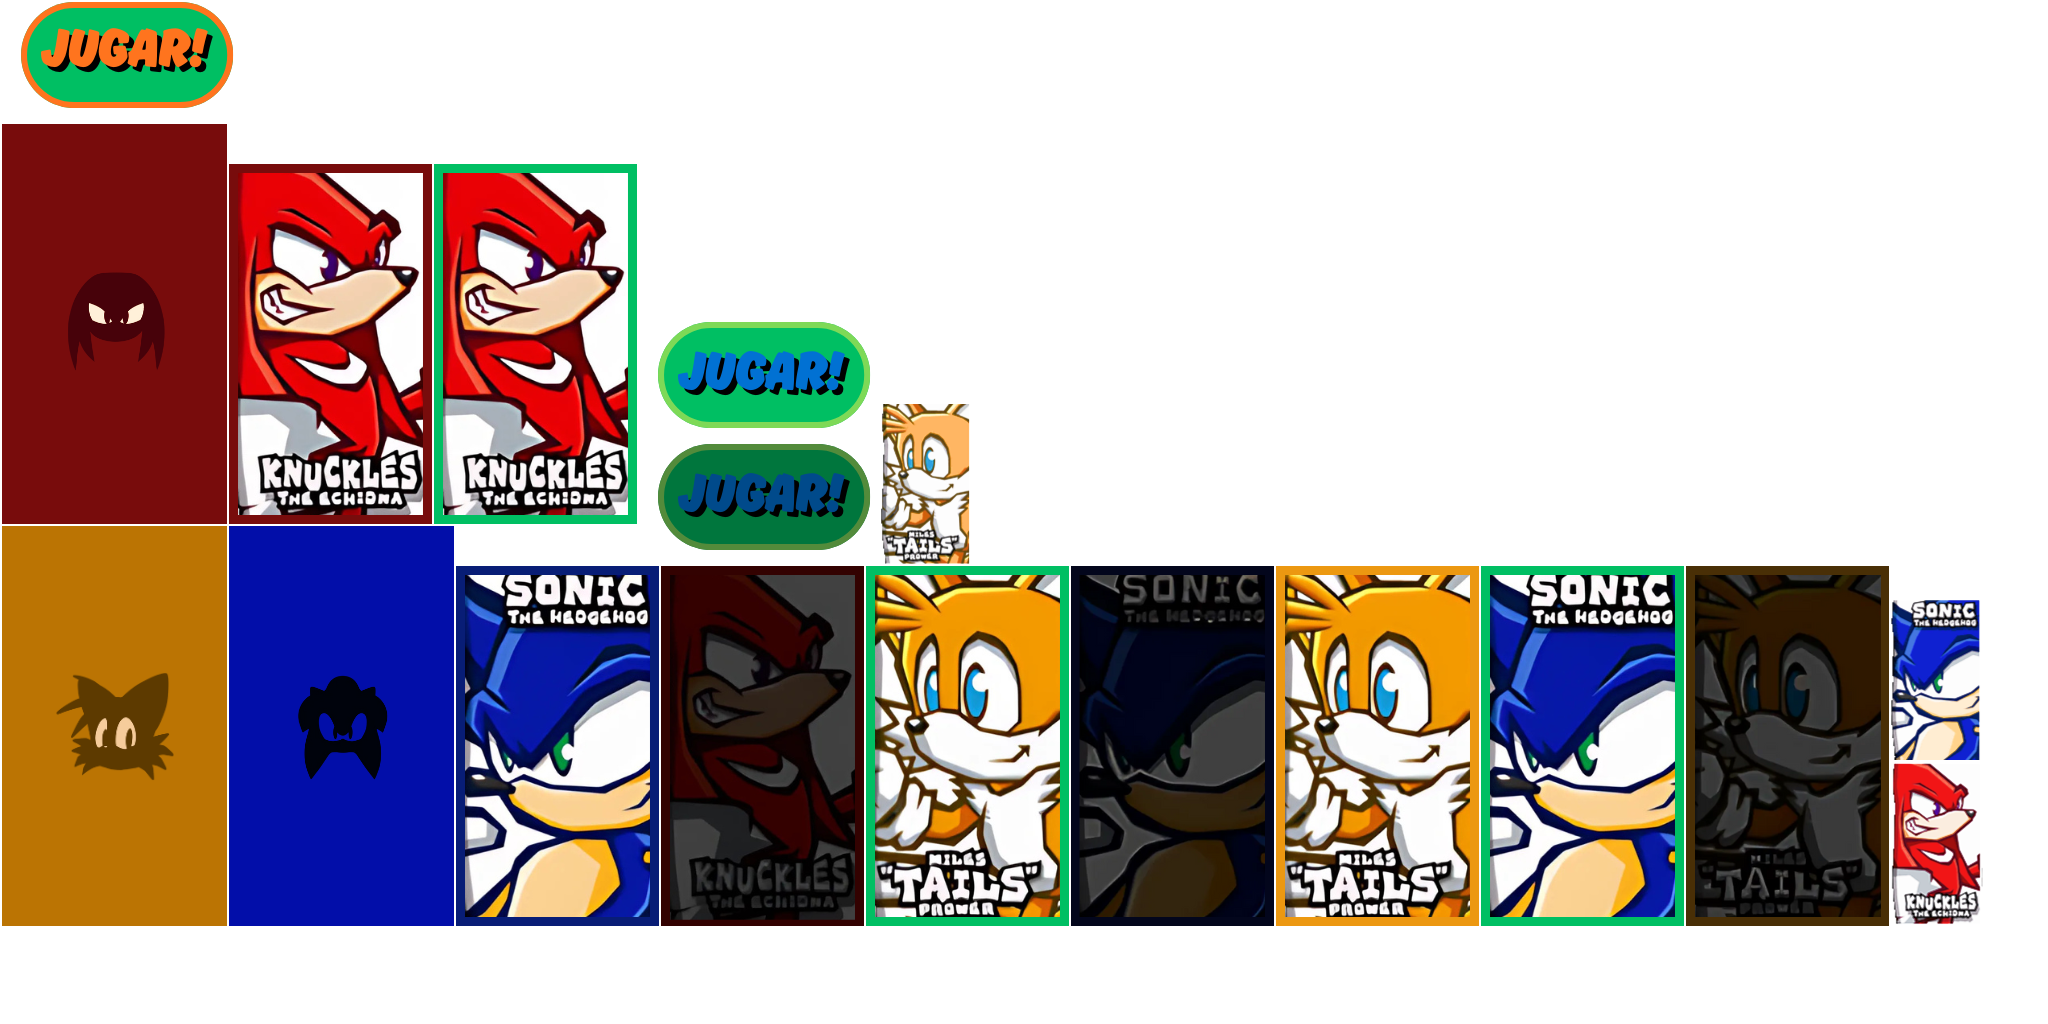
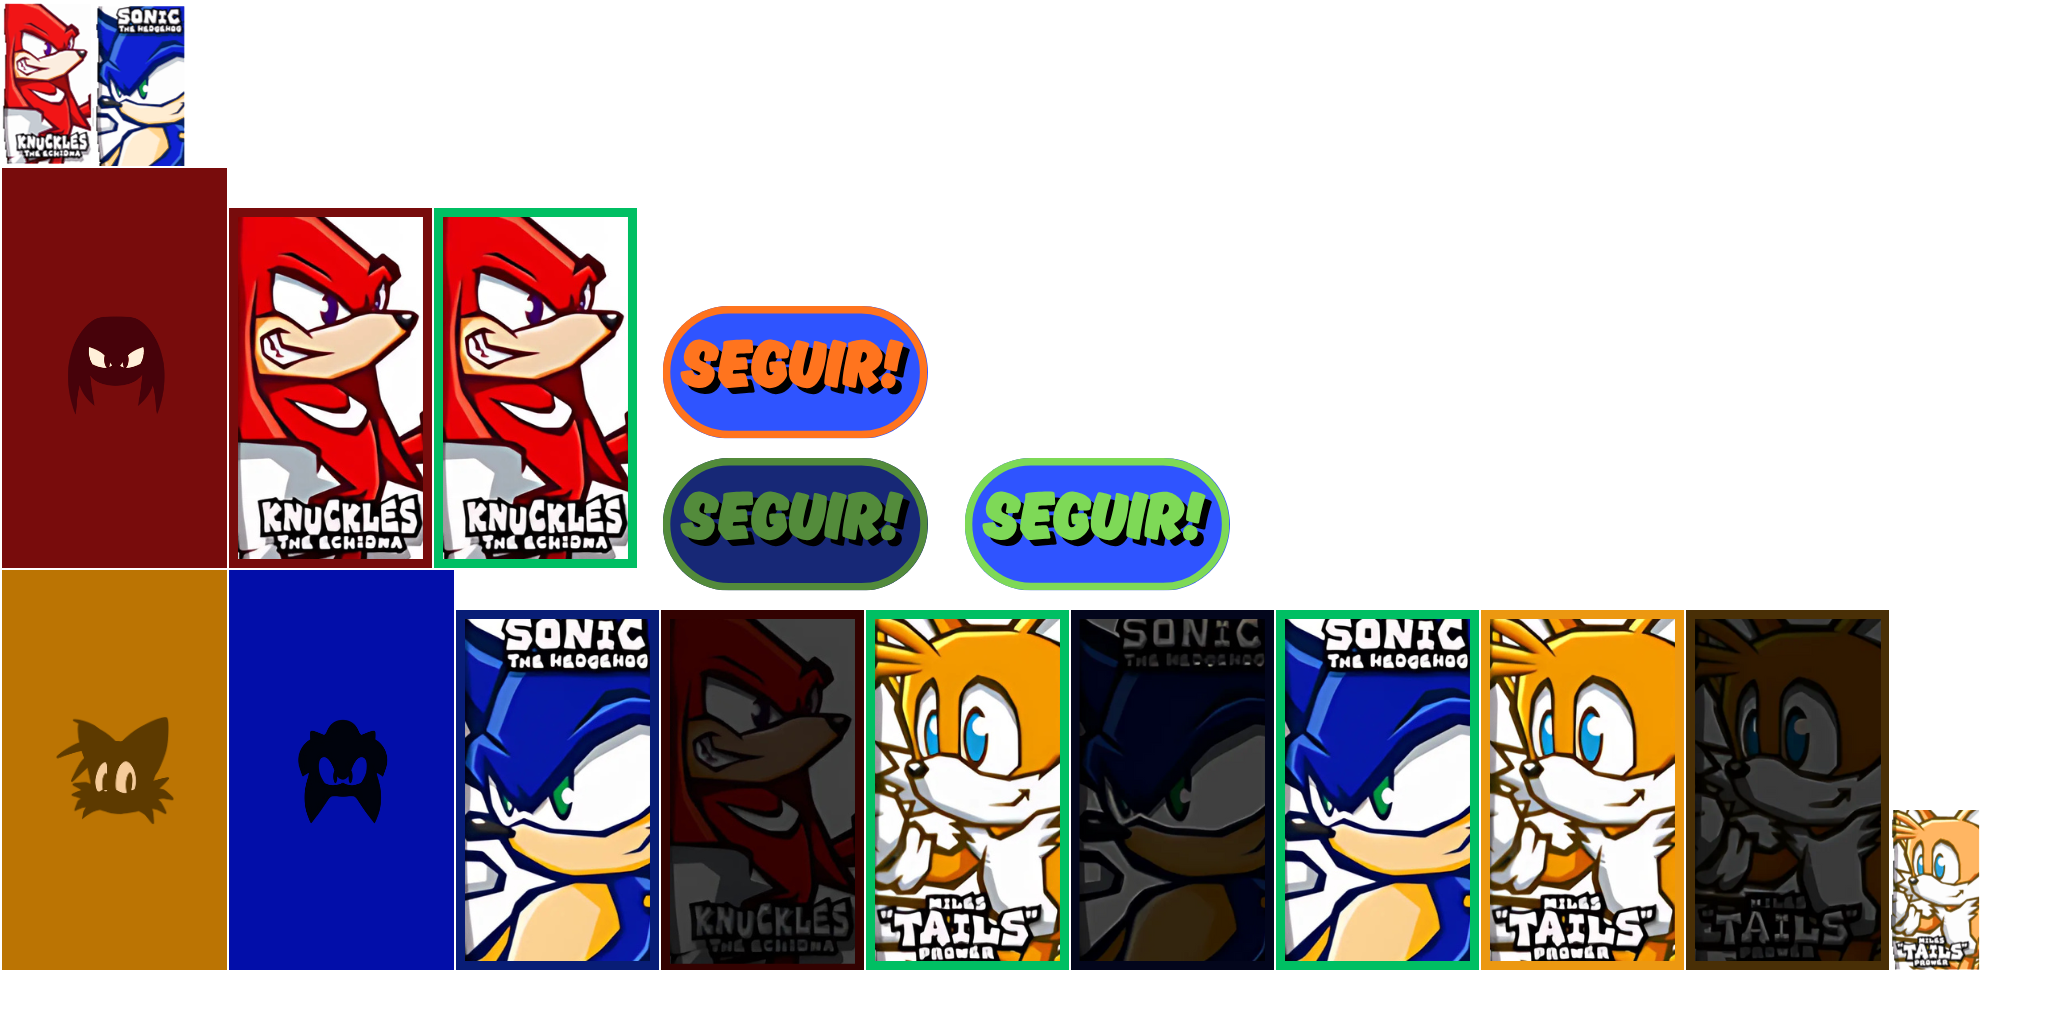
Creacion de Seleccion de niveles

diff --git a/core/src/main/java/com/JSonic/uneg/PantallaSeleccionNivel.java b/core/src/main/java/com/JSonic/uneg/PantallaSeleccionNivel.java
@@ -1,99 +1,158 @@
+// Archivo: src/com/JSonic/uneg/PantallaSeleccionNivel.java
 package com.JSonic.uneg;
 
 import com.badlogic.gdx.Gdx;
-import com.badlogic.gdx.Screen;
 import com.badlogic.gdx.graphics.GL20;
 import com.badlogic.gdx.graphics.Texture;
+import com.badlogic.gdx.graphics.g2d.TextureAtlas;
 import com.badlogic.gdx.scenes.scene2d.InputEvent;
-import com.badlogic.gdx.scenes.scene2d.Stage;
-import com.badlogic.gdx.scenes.scene2d.ui.Image;
-import com.badlogic.gdx.scenes.scene2d.ui.Label;
-import com.badlogic.gdx.scenes.scene2d.ui.Table;
-import com.badlogic.gdx.scenes.scene2d.ui.TextButton;
+import com.badlogic.gdx.scenes.scene2d.ui.*;
 import com.badlogic.gdx.scenes.scene2d.utils.ClickListener;
-import com.badlogic.gdx.utils.viewport.ScreenViewport;
+import com.badlogic.gdx.scenes.scene2d.utils.TextureRegionDrawable;
 
 public class PantallaSeleccionNivel extends PantallaBase {
 
     private final JSonicJuego juegoApp;
-    private final Screen pantallaAnterior;
-    private Texture backgroundTexture;
+    private TextureAtlas atlasNiveles, atlasTextures;
+    private Button playButton;
+    private Button botonNivel1, botonNivel2, botonNivel3;
+    private ButtonGroup<Button> grupoBotonesNivel;
 
-    public PantallaSeleccionNivel(JSonicJuego juegoApp, Screen pantallaAnterior) {
+    public PantallaSeleccionNivel(JSonicJuego juegoApp) {
         super();
         this.juegoApp = juegoApp;
-        this.pantallaAnterior = pantallaAnterior;
-        inicializar();
     }
 
     @Override
     public void inicializar() {
-        mainStage = new Stage(new ScreenViewport());
+        mainStage.addActor(new Image(new Texture("Fondos/Portada_desenfoque.png")));
+        atlasNiveles = new TextureAtlas(Gdx.files.internal("Atlas/seleccionNiveles.atlas"));
+        atlasTextures = new TextureAtlas(Gdx.files.internal("Atlas/textures.atlas"));
+        TextureRegionDrawable fondoDrawable = new TextureRegionDrawable(atlasTextures.findRegion("shade"));
 
-        backgroundTexture = new Texture(Gdx.files.internal("Fondos/Portada_desenfoque.png"));
-        Image backgroundImage = new Image(backgroundTexture);
-        backgroundImage.setFillParent(true);
-        mainStage.addActor(backgroundImage);
+        // Usaremos una única tabla para todo el layout, como en la pantalla de personajes.
+        Table tablaPrincipal = new Table();
+        tablaPrincipal.setFillParent(true);
+        mainStage.addActor(tablaPrincipal);
 
-        Table tabla = new Table();
-        tabla.setFillParent(true);
-        mainStage.addActor(tabla);
+        // Título usando una región del atlas
+        TextureRegionDrawable tituloDrawable = null;
+        tituloDrawable = new TextureRegionDrawable(atlasNiveles.findRegion("seleccionatunivel"));
+        tablaPrincipal.add(new Image(tituloDrawable)).colspan(3).padBottom(20).row();
 
-        Label titleLabel = new Label("Selecciona un Nivel", getSkin());
-        titleLabel.setFontScale(2);
 
-        TextButton nivel1Button = new TextButton("Zona 1 - Nivel 1", getSkin());
-        TextButton nivel2Button = new TextButton("Zona 1 - Nivel 2", getSkin());
-        TextButton nivel3Button = new TextButton("Zona 1 - Nivel 3", getSkin());
-        TextButton jefe1Button = new TextButton("Jefe 1", getSkin());
-        TextButton jugarButton = new TextButton("Jugar", getSkin());
+        // --- Creación de Botones de Nivel ---
+        botonNivel1 = crearBotonNivel("nivel1_seleccion", "nivel1_seleccionado", "nivel1_disabled");
+        botonNivel2 = crearBotonNivel("nivel2_seleccion", "nivel2_seleccionado", "nivel2_disabled");
+        botonNivel3 = crearBotonNivel("nivel3_seleccion", "nivel3_seleccionado", "nivel3_disabled");
 
-        nivel1Button.addListener(new ClickListener() {
+        grupoBotonesNivel = new ButtonGroup<>(botonNivel1, botonNivel2, botonNivel3);
+        grupoBotonesNivel.setMaxCheckCount(1);
+        grupoBotonesNivel.setMinCheckCount(0);
+
+        botonNivel1.setChecked(true);
+        botonNivel1.addListener(new ClickListener() {
             @Override
             public void clicked(InputEvent event, float x, float y) {
-              //  juegoApp.nivelSeleccionado = "maps/Zona1N1.tmx";
+                System.out.println("Botón Nivel 1 clickeado");
+                ConfiguracionJuego.mapaSeleccionado = "maps/Zona1N1.tmx";
+            }
+        });
+        botonNivel2.addListener(new ClickListener() {
+            @Override
+            public void clicked(InputEvent event, float x, float y) {
+                System.out.println("Botón Nivel 2 clickeado");
+                ConfiguracionJuego.mapaSeleccionado = "maps/Zona1N2.tmx";
+            }
+        });
+        botonNivel3.addListener(new ClickListener() {
+            @Override
+            public void clicked(InputEvent event, float x, float y) {
+                System.out.println("Botón Nivel 3 clickeado");
+                ConfiguracionJuego.mapaSeleccionado = "maps/Zona1N3.tmx";
             }
         });
 
-        nivel2Button.addListener(new ClickListener() {
+        // --- Creación del Botón Jugar ---
+        Button.ButtonStyle playStyle = new Button.ButtonStyle();
+        playStyle.up = new TextureRegionDrawable(atlasNiveles.findRegion("boton_jugar"));
+
+        playStyle.down = new TextureRegionDrawable(atlasNiveles.findRegion("boton_jugar_down"));
+        playStyle.over = new TextureRegionDrawable(atlasNiveles.findRegion("boton_jugar_hover"));
+        playButton = new Button(playStyle);
+
+        playButton.addListener(new ClickListener() {
             @Override
             public void clicked(InputEvent event, float x, float y) {
-                //juegoApp.nivelSeleccionado = "maps/Zona1N2.tmx";
+                if (ConfiguracionJuego.mapaSeleccionado != null) {
+                    juegoApp.iniciarJuegoLocal();
+                }
             }
         });
 
-        nivel3Button.addListener(new ClickListener() {
-            @Override
-            public void clicked(InputEvent event, float x, float y) {
-                //juegoApp.nivelSeleccionado = "maps/Zona1N3.tmx";
-            }
-        });
 
-        jefe1Button.addListener(new ClickListener() {
-            @Override
-            public void clicked(InputEvent event, float x, float y) {
-                //juegoApp.nivelSeleccionado = "maps/ZonaJefeN1.tmx";
-            }
-        });
 
-        jugarButton.addListener(new ClickListener() {
-            @Override
-            public void clicked(InputEvent event, float x, float y) {
-                //juegoApp.iniciarJuegoLocal();
-            }
-        });
+        // --- LAYOUT CORREGIDO ---
+        // Agregar textos descriptivos ARRIBA de cada botón
+        Label.LabelStyle smallLabelStyle = new Label.LabelStyle(getSkin().get(Label.LabelStyle.class));
+        smallLabelStyle.font.getData().setScale(0.8f);
+        Label labelNivel1 = new Label("Green Hill", smallLabelStyle);
+        Label labelNivel2 = new Label("Chemical Plant", smallLabelStyle);
+        Label labelNivel3 = new Label("Ice Cap", smallLabelStyle);
 
-        tabla.add(titleLabel).colspan(2).padBottom(40).row();
-        tabla.add(nivel1Button).width(300).height(50).pad(10);
-        tabla.add(nivel2Button).width(300).height(50).pad(10).row();
-        tabla.add(nivel3Button).width(300).height(50).pad(10);
-        tabla.add(jefe1Button).width(300).height(50).pad(10).row();
-        tabla.add(jugarButton).colspan(2).padTop(40).width(200).height(50);
+        //1
+        Label tooltipLabel1 = new Label("Zona clasica de pasto y colinas.", getSkin(), "default");
+        tooltipLabel1.setWrap(true);
+        Table tooltipTable1 = new Table(getSkin());
+        tooltipTable1.setBackground(fondoDrawable);
+        tooltipTable1.add(tooltipLabel1)
+                .width(300)
+                .pad(20);
+        Tooltip<Table> tooltip1 = new Tooltip<>(tooltipTable1);
+        tooltip1.setInstant(true);
+        botonNivel1.addListener(tooltip1);
+
+
+        Label tooltipLabel2 = new Label("Fabrica llena de productos quimicos.", getSkin(), "default");
+        tooltipLabel2.setWrap(true);
+        Table tooltipTable2 = new Table(getSkin());
+        tooltipTable2.setBackground(fondoDrawable);
+        tooltipTable2.add(tooltipLabel2).width(300).pad(20);
+        Tooltip<Table> tooltip2 = new Tooltip<>(tooltipTable2);
+        tooltip2.setInstant(true);
+        botonNivel2.addListener(tooltip2);
+
+        Label tooltipLabel3 = new Label("Zona helada y resbaladiza.", getSkin(), "default");
+        tooltipLabel3.setWrap(true);
+        Table tooltipTable3 = new Table(getSkin());
+        tooltipTable3.setBackground(fondoDrawable);
+        tooltipTable3.add(tooltipLabel3).width(300).pad(20);
+        Tooltip<Table> tooltip3 = new Tooltip<>(tooltipTable3);
+        tooltip3.setInstant(true);
+        botonNivel3.addListener(tooltip3);
+
+        tablaPrincipal.add(labelNivel1).padBottom(10);
+        tablaPrincipal.add(labelNivel2).padBottom(10);
+        tablaPrincipal.add(labelNivel3).padBottom(10).row();
+
+        tablaPrincipal.add(botonNivel1).size(300, 225).pad(20);
+        tablaPrincipal.add(botonNivel2).size(300, 225).pad(20);
+        tablaPrincipal.add(botonNivel3).size(300, 225).pad(20).row();
+
+        tablaPrincipal.add(playButton).colspan(3).padTop(40).size(250, 80);
+    }
+
+    private Button crearBotonNivel(String up, String checked, String disabled) {
+        Button.ButtonStyle estilo = new Button.ButtonStyle();
+        estilo.up = new TextureRegionDrawable(atlasNiveles.findRegion(up));
+        estilo.checked = new TextureRegionDrawable(atlasNiveles.findRegion(checked));
+        estilo.disabled = new TextureRegionDrawable(atlasNiveles.findRegion(disabled));
+        return new Button(estilo);
     }
 
     @Override
     public void actualizar(float delta) {
-        mainStage.act(Math.min(Gdx.graphics.getDeltaTime(), 1 / 30f));
+        mainStage.act(delta);
     }
 
     @Override
@@ -116,8 +175,9 @@ public class PantallaSeleccionNivel extends PantallaBase {
 
     @Override
     public void dispose() {
-        mainStage.dispose();
-        backgroundTexture.dispose();
+        super.dispose();
+        atlasNiveles.dispose();
+        atlasTextures.dispose();
     }
 }
 

diff --git a/core/src/main/java/com/JSonic/uneg/PantallaSeleccionPersonaje.java b/core/src/main/java/com/JSonic/uneg/PantallaSeleccionPersonaje.java
@@ -49,7 +49,6 @@ public class PantallaSeleccionPersonaje extends PantallaBase {
         tailsButton = crearBotonPersonaje("tails_seleccion", "tails_seleccion_oscuro",  "tails_seleccionado", "tails_disabled");
         knucklesButton = crearBotonPersonaje("knuckles_seleccion", "knuckles_seleccion_oscuro", "knuckles_seleccionado", "knuckles_disabled");
 
-        // ... (código para configurar botones y listeners es el mismo de antes)
         characterGroup = new ButtonGroup<>(sonicButton, tailsButton, knucklesButton);
         characterGroup.setMaxCheckCount(1);
         characterGroup.setMinCheckCount(1);
@@ -58,11 +57,11 @@ public class PantallaSeleccionPersonaje extends PantallaBase {
         tailsButton.addListener(new ClickListener() { @Override public void clicked(InputEvent e, float x, float y) { if (!tailsButton.isDisabled()) personajeSeleccionado = PlayerState.CharacterType.TAILS; }});
         knucklesButton.addListener(new ClickListener() { @Override public void clicked(InputEvent e, float x, float y) { if (!knucklesButton.isDisabled()) personajeSeleccionado = PlayerState.CharacterType.KNUCKLES; }});
 
-        
+
         Button.ButtonStyle playStyle = new Button.ButtonStyle();
-        playStyle.up = new TextureRegionDrawable(characterAtlas.findRegion("boton_jugar"));
-        playStyle.down = new TextureRegionDrawable(characterAtlas.findRegion("boton_jugar_down"));
-        playStyle.over = new TextureRegionDrawable(characterAtlas.findRegion("boton_jugar_hover"));
+        playStyle.up = new TextureRegionDrawable(characterAtlas.findRegion("boton_seguir"));
+        playStyle.down = new TextureRegionDrawable(characterAtlas.findRegion("boton_seguir_down"));
+        playStyle.over = new TextureRegionDrawable(characterAtlas.findRegion("boton_seguir_hover"));
         playButton = new Button(playStyle);
 
         playButton.addListener(new ClickListener() {
@@ -76,7 +75,7 @@ public class PantallaSeleccionPersonaje extends PantallaBase {
                         juegoApp.setPantallaActiva(new PantallaLobby(juegoApp, esAnfitrion));
                     } else {
                         // Flujo de un jugador
-                        juegoApp.iniciarJuegoLocal();
+                        juegoApp.setPantallaActiva(new PantallaSeleccionNivel(juegoApp));
                     }
 
 

diff --git a/core/src/main/java/com/JSonic/uneg/PantallaDeJuego.java b/core/src/main/java/com/JSonic/uneg/PantallaDeJuego.java
@@ -91,7 +91,7 @@ public class PantallaDeJuego extends PantallaBase {
         camaraJuego = new OrthographicCamera();
         viewport = new FitViewport(VIRTUAL_WIDTH, VIRTUAL_HEIGHT, camaraJuego);
         manejadorNivel = new LevelManager(camaraJuego, batch);
-        manejadorNivel.cargarNivel("maps/Zona1N1.tmx");
+        manejadorNivel.cargarNivel(ConfiguracionJuego.mapaSeleccionado);
         personajeJugableEstado = new PlayerState();
 
         //para tomar lo metodos de LevelManager

diff --git a/core/src/main/java/com/JSonic/uneg/ConfiguracionJuego.java b/core/src/main/java/com/JSonic/uneg/ConfiguracionJuego.java
@@ -1,0 +1,6 @@
+package com.JSonic.uneg;
+
+public class ConfiguracionJuego {
+    public static String mapaSeleccionado = "maps/Zona1N1.tmx";
+
+}
